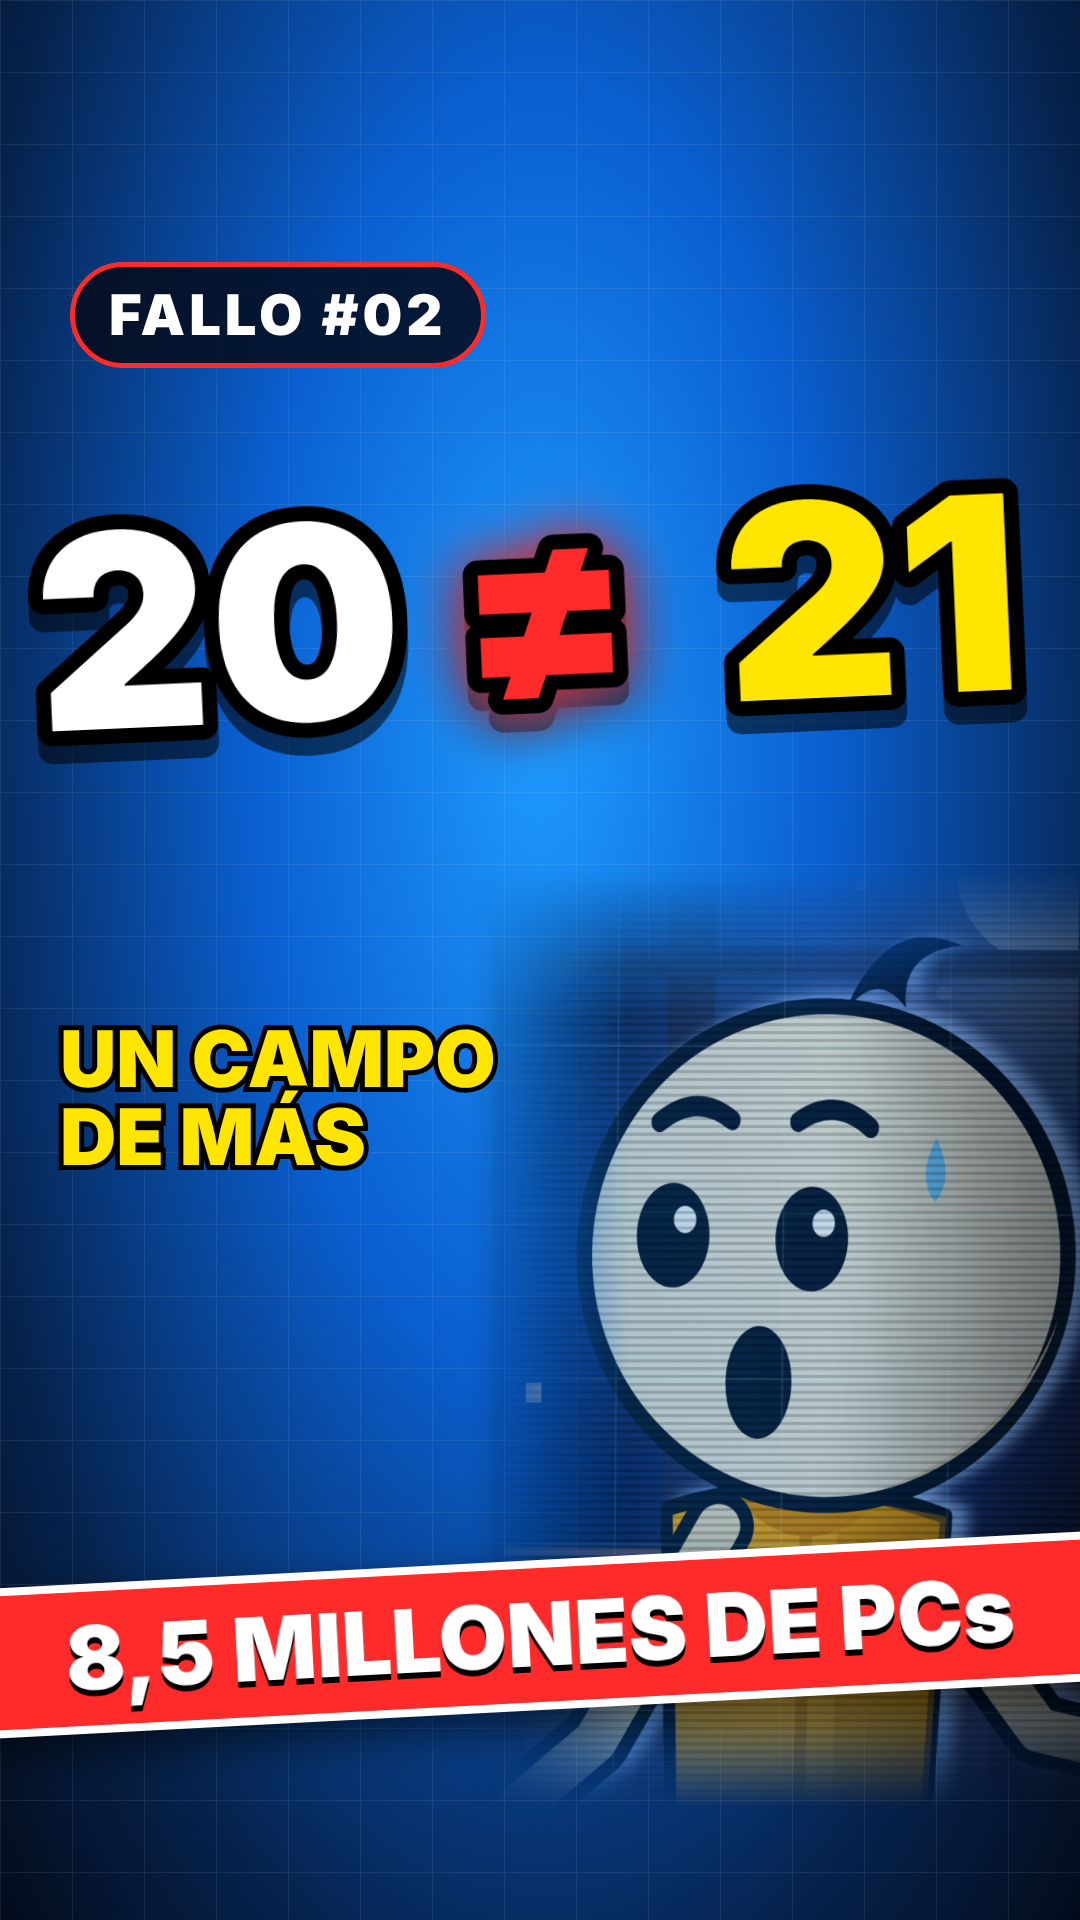
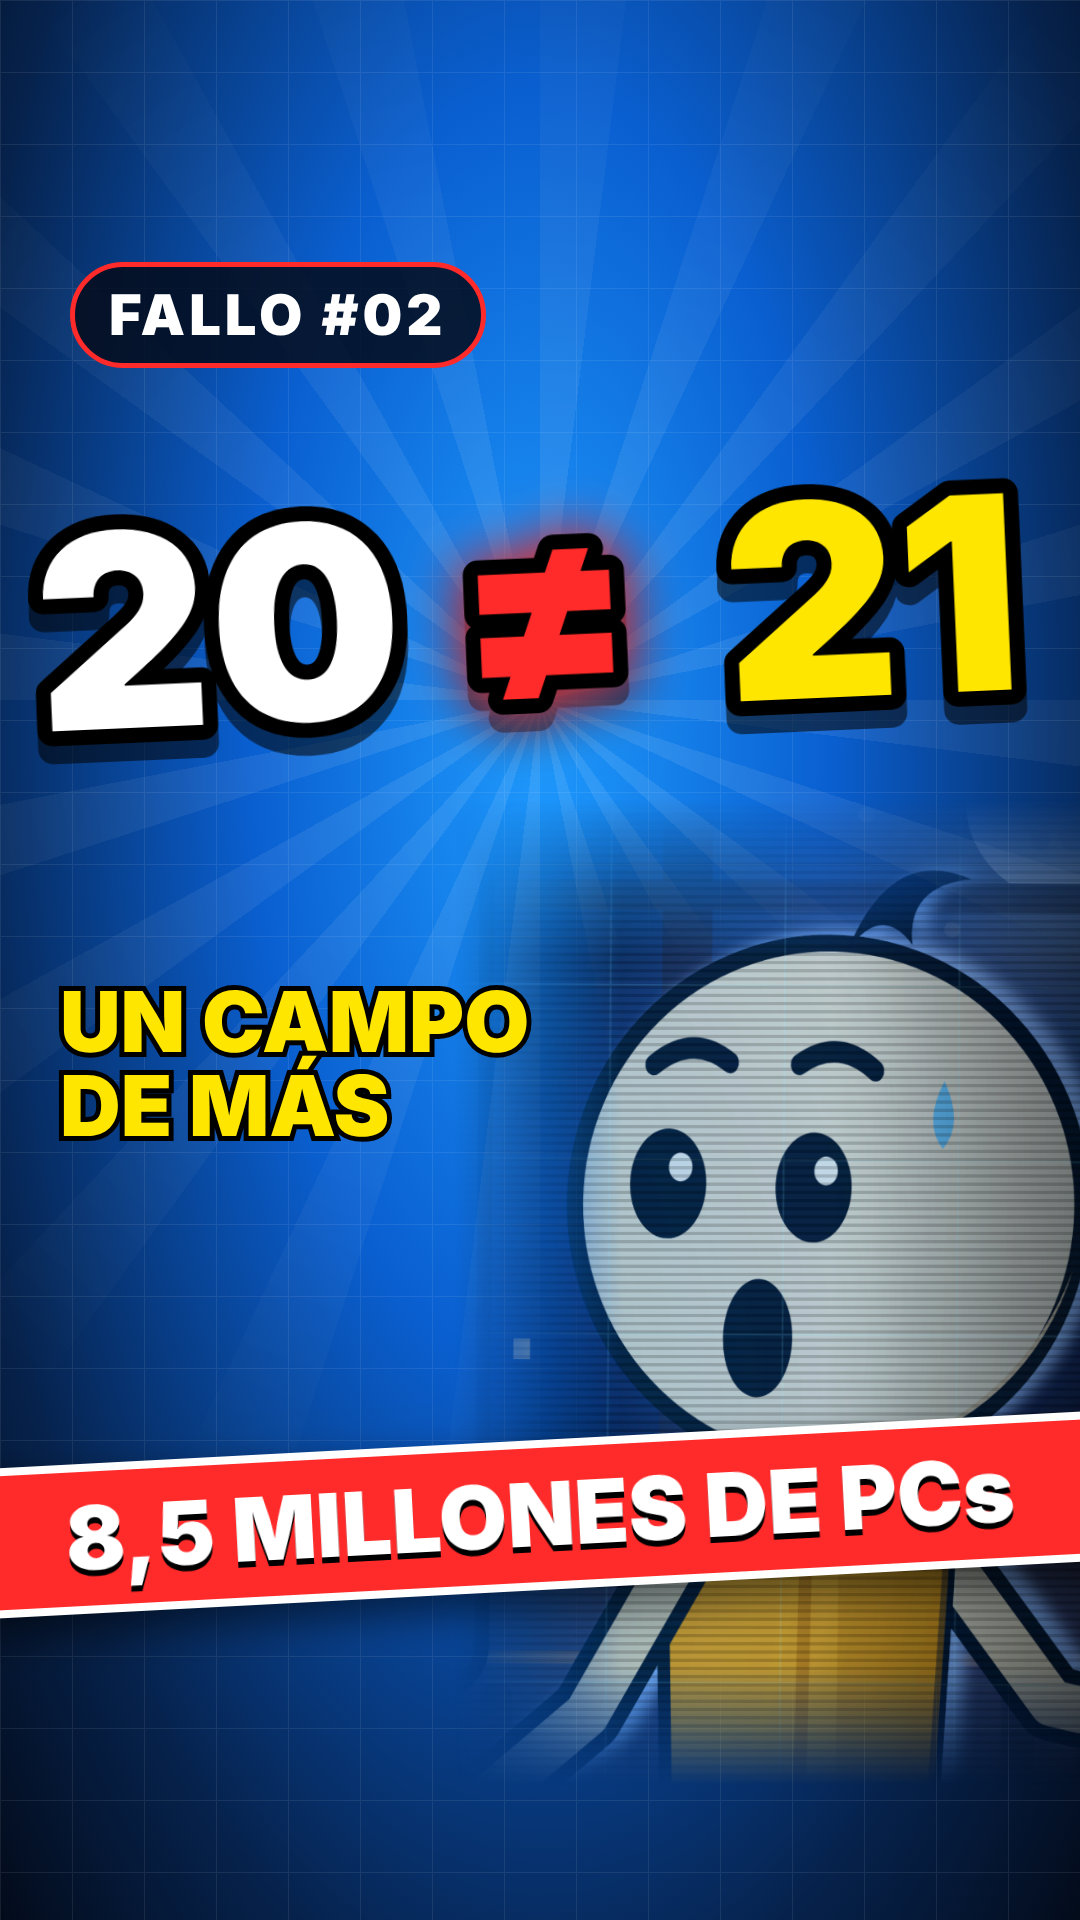
Fallo #02 thumbnail: rays, safe zone for TikTok/Instagram grids
Claude-Session: https://claude.ai/code/session_01UvSALjBVpBVemw6p1kxsgc

Changed region(s): [[0.0, 0.4062, 1.0, 0.9375], [0.4583, 0.6875, 0.4889, 0.7188]]

diff --git a/canal/no-presiones/miniatura/th02b.html b/canal/no-presiones/miniatura/th02b.html
@@ -4,6 +4,7 @@
   <defs><pattern id="g" width="72" height="72" patternUnits="userSpaceOnUse"><path d="M72 0H0V72" fill="none" stroke="#fff" stroke-opacity=".08" stroke-width="2"/></pattern></defs>
   <rect width="1080" height="1920" fill="url(#g)"/>
  </svg>
+ <div style="position:absolute;inset:0;background:repeating-conic-gradient(from 0deg at 540px 700px,rgba(255,255,255,.11) 0deg 7deg,rgba(255,255,255,0) 7deg 18deg);-webkit-mask-image:radial-gradient(circle at 540px 700px,#000 0,transparent 880px)"></div>
  <div style="position:absolute;left:70px;top:262px;padding:14px 34px;border-radius:999px;background:rgba(3,11,26,.85);border:5px solid #FF2A2A;color:#fff;font:900 56px Inter,Arial,sans-serif;letter-spacing:4px">FALLO #02</div>
  <svg style="position:absolute;left:0;top:380px" width="1080" height="460" overflow="visible">
   <g transform="rotate(-2.5 540 230)" font-family="Inter,Arial,sans-serif" font-weight="900" paint-order="stroke" stroke="#000" stroke-width="30" stroke-linejoin="round" text-anchor="middle" style="filter:drop-shadow(0 18px 0 rgba(0,0,0,.55))">
@@ -12,8 +13,8 @@
    <text x="872" y="330" font-size="270" fill="#FFE600">21</text>
   </g>
  </svg>
- <img src="file:///home/user/RemotionProject/canal/no-presiones/miniatura/.pip02.png" style="position:absolute;left:470px;top:870px;width:610px;height:auto;-webkit-mask-image:linear-gradient(90deg,transparent 0,#000 26%),linear-gradient(0deg,transparent 0,#000 12%),linear-gradient(180deg,transparent 0,#000 16%);-webkit-mask-composite:source-in;mask-composite:intersect;filter:saturate(1.25) contrast(1.1)">
- <div style="position:absolute;left:-30px;top:1560px;width:1140px;transform:rotate(-3deg);background:#FF2A2A;border-top:8px solid #fff;border-bottom:8px solid #fff;padding:22px 0 24px;text-align:center;color:#fff;font:900 88px/1 Inter,Arial,sans-serif;text-shadow:0 6px 0 #000;box-shadow:0 18px 40px rgba(0,0,0,.55)">8,5 MILLONES DE PCs</div>
- <div style="position:absolute;left:60px;top:1020px;color:#FFE600;font:900 78px/1.0 Inter,Arial,sans-serif;-webkit-text-stroke:10px #000;paint-order:stroke">UN CAMPO<br>DE MÁS</div>
+ <img src="file:///home/user/RemotionProject/canal/no-presiones/miniatura/.pip02.png" style="position:absolute;left:455px;top:800px;width:640px;height:auto;-webkit-mask-image:linear-gradient(90deg,transparent 0,#000 26%),linear-gradient(0deg,transparent 0,#000 12%),linear-gradient(180deg,transparent 0,#000 16%);-webkit-mask-composite:source-in;mask-composite:intersect;filter:saturate(1.25) contrast(1.1)">
+ <div style="position:absolute;left:-30px;top:1440px;width:1140px;transform:rotate(-3deg);background:#FF2A2A;border-top:8px solid #fff;border-bottom:8px solid #fff;padding:22px 0 24px;text-align:center;color:#fff;font:900 88px/1 Inter,Arial,sans-serif;text-shadow:0 6px 0 #000;box-shadow:0 18px 40px rgba(0,0,0,.55)">8,5 MILLONES DE PCs</div>
+ <div style="position:absolute;left:60px;top:980px;color:#FFE600;font:900 84px/1.0 Inter,Arial,sans-serif;-webkit-text-stroke:10px #000;paint-order:stroke">UN CAMPO<br>DE MÁS</div>
 </div>
 </body></html>
